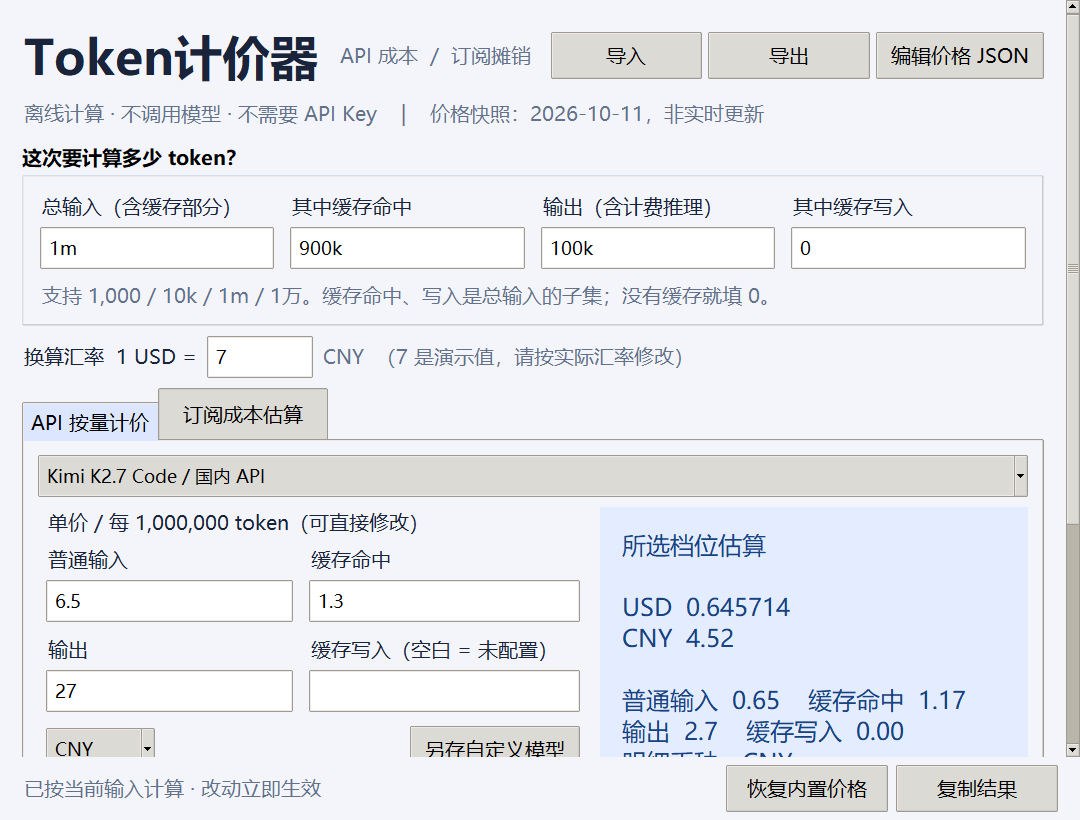
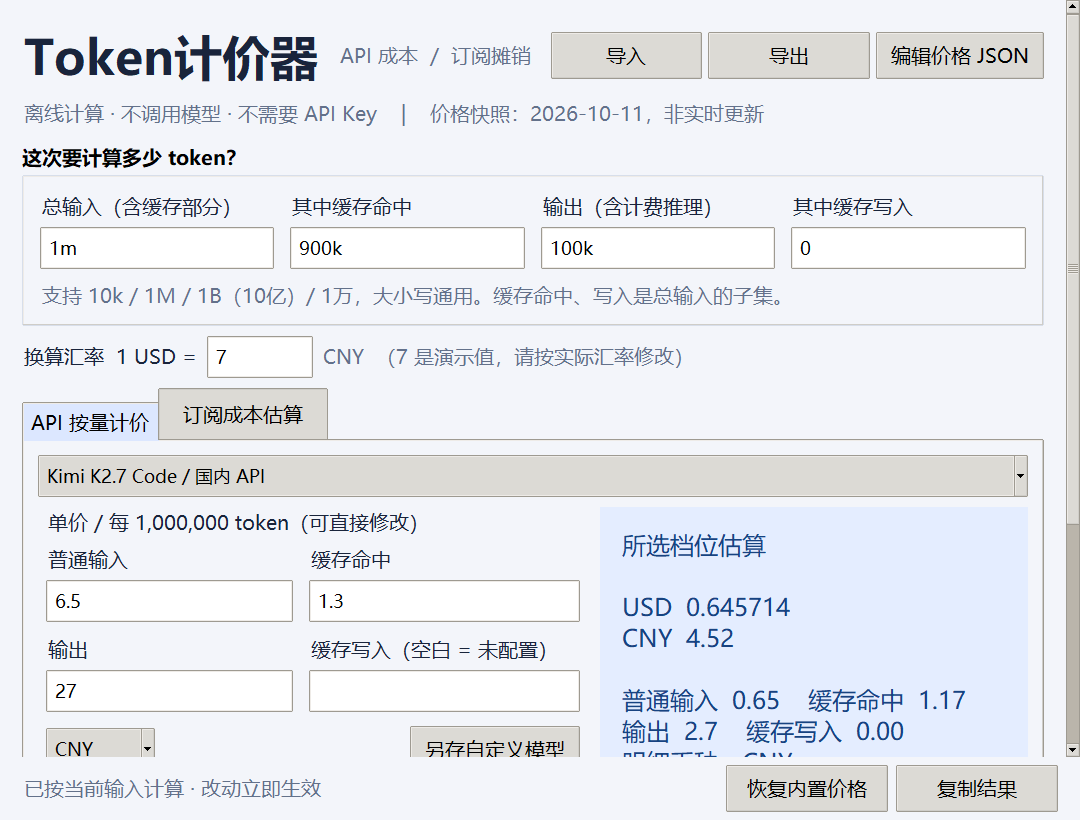
Support billion-token input across API and subscription estimates

Changed region(s): [[0.0917, 0.3354, 0.7333, 0.3963]]

diff --git a/pricing.py b/pricing.py
@@ -34,11 +34,11 @@ def number(value, label="数值", *, positive=False) -> Decimal:
 
 def tokens(value, label="Token 数") -> int:
     text = str(value).strip().lower().replace("，", ",")
-    # Accept properly grouped numbers, k/m and Chinese 万/亿; never silently truncate.
-    match = re.fullmatch(r"([0-9]+(?:\.[0-9]+)?|[0-9]{1,3}(?:,[0-9]{3})+(?:\.[0-9]+)?)([km万亿]?)", text)
+    # Accept properly grouped numbers, k/m/b and Chinese 万/亿; never silently truncate.
+    match = re.fullmatch(r"([0-9]+(?:\.[0-9]+)?|[0-9]{1,3}(?:,[0-9]{3})+(?:\.[0-9]+)?)([kmb万亿]?)", text)
     if not match:
-        raise ValueError(f"{label}请填非负整数，可用 1,000、10k、1m、1万")
-    multiplier = {"": 1, "k": 1000, "m": 1000000, "万": 10000, "亿": 100000000}[match[2]]
+        raise ValueError(f"{label}请填非负整数，可用 1,000、10k、1m、1B、1万")
+    multiplier = {"": 1, "k": 1000, "m": 1000000, "b": 1000000000, "万": 10000, "亿": 100000000}[match[2]]
     result = number(match[1].replace(",", ""), label) * multiplier
     if result != result.to_integral_value() or result > 10**15:
         raise ValueError(f"{label}必须是 0 到 10^15 之间的整数")
@@ -95,11 +95,11 @@ def subscription(monthly_fee, monthly_tokens, counts, extra=0):
 
 
 def credits(plan, counts, off_peak=False):
-    if counts["write"]:
-        raise ValueError("GLM 积分估算请将缓存写入计入普通输入，缓存写入栏填 0")
     weights = plan.get("weights")
     if weights is None:
         return None
+    if counts["write"]:
+        raise ValueError("GLM 积分估算请将缓存写入计入普通输入，缓存写入栏填 0")
     with localcontext() as ctx:
         ctx.prec = 60
         cost = sum(Decimal(counts[k]) * number(weights[k]) for k in ("input", "cached", "output")) / 10000

diff --git a/tests/test_pricing.py b/tests/test_pricing.py
@@ -26,6 +26,14 @@ class PricingTests(unittest.TestCase):
         self.assertEqual(convert(result["total"], "USD", "7.2"), (D("1.315"), D("9.4680")))
         self.assertEqual(convert(D("7.2"), "CNY", "7.2"), (D(1), D("7.2")))
 
+    def test_billion_token_formats_and_limits(self):
+        for value, expected in [("1B", 10**9), ("1b", 10**9), ("1.5B", 1500000000), ("0.000000001B", 1), ("1,000,000B", 10**15)]:
+            with self.subTest(value=value):
+                self.assertEqual(tokens(value), expected)
+        for value in ("0.0000000001B", "1000001B", "1BB"):
+            with self.subTest(value=value), self.assertRaises(ValueError):
+                tokens(value)
+
     def test_invalid_cache_and_unsupported_write(self):
         with self.assertRaises(ValueError):
             usage(100, 90, 10, 11)
@@ -54,6 +62,13 @@ class PricingTests(unittest.TestCase):
         self.assertEqual(credits(plan, counts), D(462))
         self.assertEqual(credits(plan, counts, True), D(231))
         self.assertIsNone(credits({}, counts))
+
+    def test_subscription_cache_writes_only_restricted_for_glm(self):
+        counts = usage(100, 50, 10, 20)
+        self.assertIsNone(credits({}, counts))
+        self.assertEqual(subscription(10, 110, counts)["allocated"], 10)
+        with self.assertRaises(ValueError):
+            credits(dict(weights=dict(input="6.9", cached="1.7", output="24")), counts)
 
     def test_catalog_roundtrip_and_atomic_failure(self):
         data = read_catalog(Path(__file__).parents[1] / "prices.json")

diff --git a/app.py b/app.py
@@ -109,7 +109,7 @@ class App(tk.Tk):
         for col, (label, var) in enumerate((("总输入（含缓存部分）", self.total), ("其中缓存命中", self.cached), ("输出（含计费推理）", self.output), ("其中缓存写入", self.write))):
             box.columnconfigure(col, weight=1)
             self.field(box, label, var, 0, col)
-        ttk.Label(box, text="支持 1,000 / 10k / 1m / 1万。缓存命中、写入是总输入的子集；没有缓存就填 0。", style="Muted.TLabel").grid(row=1, column=0, columnspan=4, sticky="w", padx=8, pady=5)
+        ttk.Label(box, text="支持 10k / 1M / 1B（10亿）/ 1万，大小写通用。缓存命中、写入是总输入的子集。", style="Muted.TLabel").grid(row=1, column=0, columnspan=4, sticky="w", padx=8, pady=5)
 
         fxrow = ttk.Frame(body)
         fxrow.pack(fill="x", pady=10)

diff --git a/tests/test_gui.py b/tests/test_gui.py
@@ -68,6 +68,22 @@ class GuiTests(unittest.TestCase):
         finally:
             reloaded.destroy()
 
+    def test_billion_inputs_across_api_and_subscription(self):
+        app = self.app
+        app.model.set("GPT-6.1 Sol / Standard 短上下文")
+        app.select_model()
+        app.total.set("1.5B")
+        app.cached.set("1b")
+        app.write.set("0.1B")
+        app.output.set("0.2B")
+        self.assertIn("USD  3150", app.api_result.cget("text").replace(",", ""))
+        app.tabs.select(1)
+        app.plan.set("Cursor Pro")
+        app.select_plan()
+        app.month.set("1.7B")
+        app.update()
+        self.assertIn("USD  20", app.sub_result.cget("text"))
+
     def test_historical_estimate_is_labeled_and_editable(self):
         app = self.app
         app.tabs.select(1)

diff --git a/docs/validation.md b/docs/validation.md
@@ -1,11 +1,11 @@
-# v1.0.0 验证记录
+# v1.0.1 验证记录
 
 2026-10-11，Windows 10 x64（19045），Python 3.11.1、Tk 8.6、PyInstaller 6.22.3。
 
-- `python -m unittest discover -s tests -v`：14 项通过。
-- 运算：十进制精度、缓存分项不重复、非法 token/单价、汇率、订阅月费和额外费用、GLM 高峰/低谷积分。
+- `python -m unittest discover -s tests -v`：17 项通过。
+- 运算：B/b 十亿单位、小数及上限校验、十进制精度、缓存分项不重复、非法 token/单价、汇率、订阅月费和额外费用、GLM 高峰/低谷积分。
 - 配置：往返、重复字段/重复模型、负价/非有限值拒绝；模拟替换文件失败后，原文件和活动配置保持不变。
-- GUI：实际 Tk 控件变量和回调驱动的实时更新、错误时清空旧结果、GLM 月用量按钮、历史样本按钮及提示、自定义价格重启加载、导入/导出、复制结果。
+- GUI：所有 token 输入框的 B 单位 API/订阅计算；实际 Tk 控件变量和回调驱动的实时更新、错误时清空旧结果、GLM 月用量按钮、历史样本按钮及提示、自定义价格重启加载、导入/导出、复制结果。
 - GUI 视觉检查：实际窗口截图；发现高 DPI 下底部被裁切，改为滚动内容区并保持底部操作栏可见后重新检查。
 - Windows EXE：已构建，独立启动后出现 `Token计价器 · TokenPricer` 主窗口，进程响应正常。没有在全新 Windows 虚拟机中验收。
 

diff --git a/README.md b/README.md
@@ -42,7 +42,7 @@ Presets retain their original USD or CNY currency. Results show both currencies 
 
 The initial snapshot was checked on **2026-10-11**. The application does not fetch prices automatically. Model rates, promotions, subscription rules and community estimates can become outdated. GLM international Pro/Max monthly fees are explicitly marked as reference values pending checkout verification. Read the [source notes](docs/pricing-sources.md) before relying on a subscription estimate.
 
-Other conveniences: `10k`, `1m`, `1万` token inputs; instant recalculation; copy results; restore built-in prices; scrollable layout for shorter/high-DPI screens. No API key, account connection or network request is required to calculate. Opening a source link launches your browser.
+Other conveniences: `10k`, `1M`, `1B`, `1.5B`, `1万` in every token field (case-insensitive; `1B` = 1,000,000,000); instant recalculation; copy results; restore built-in prices; scrollable layout for shorter/high-DPI screens. No API key, account connection or network request is required to calculate. Opening a source link launches your browser.
 
 ## Start
 

diff --git a/README.zh.md b/README.zh.md
@@ -42,7 +42,7 @@ Token计价器是一个离线中文桌面小程序。输入输入、输出 token
 
 初始价格快照核对日期为 **2026-10-11**，程序不会自动联网更新。单价、优惠期、订阅规则和社区估计都可能变化。GLM 国际 Pro/Max 月费已明确标注为参考值，需要到订阅页复核。订阅估算的具体限制见[来源说明](docs/pricing-sources.md)。
 
-其他便利：支持 `10k`、`1m`、`1万` 等写法；修改即计算；复制结果；恢复内置价格；较小窗口和高 DPI 环境可滚动查看。计算不需要 API Key、不连接账户、不发送网络请求；点击来源链接才会打开浏览器。
+其他便利：支持 `10k`、`1M`、`1B`、`1.5B`、`1万` 等写法，大小写通用（`1B` = 10 亿），所有 token 输入框均支持；修改即计算；复制结果；恢复内置价格；较小窗口和高 DPI 环境可滚动查看。计算不需要 API Key、不连接账户、不发送网络请求；点击来源链接才会打开浏览器。
 
 ## 开始使用
 
